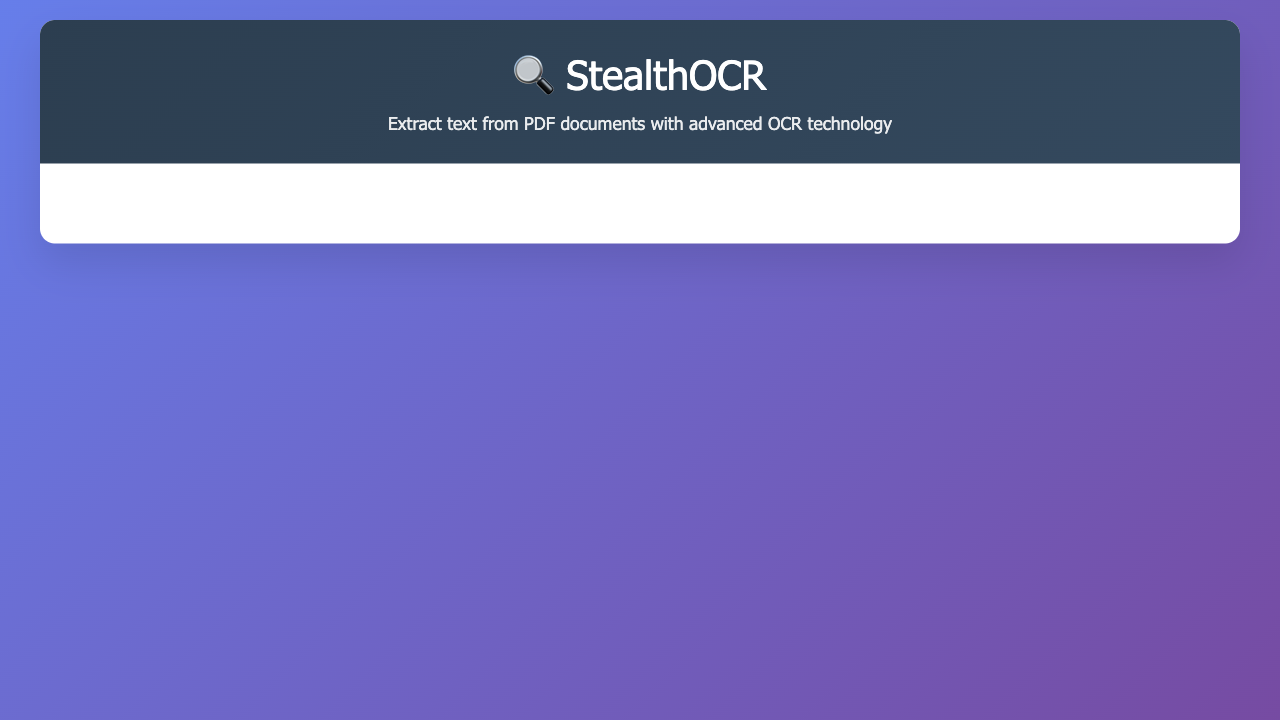
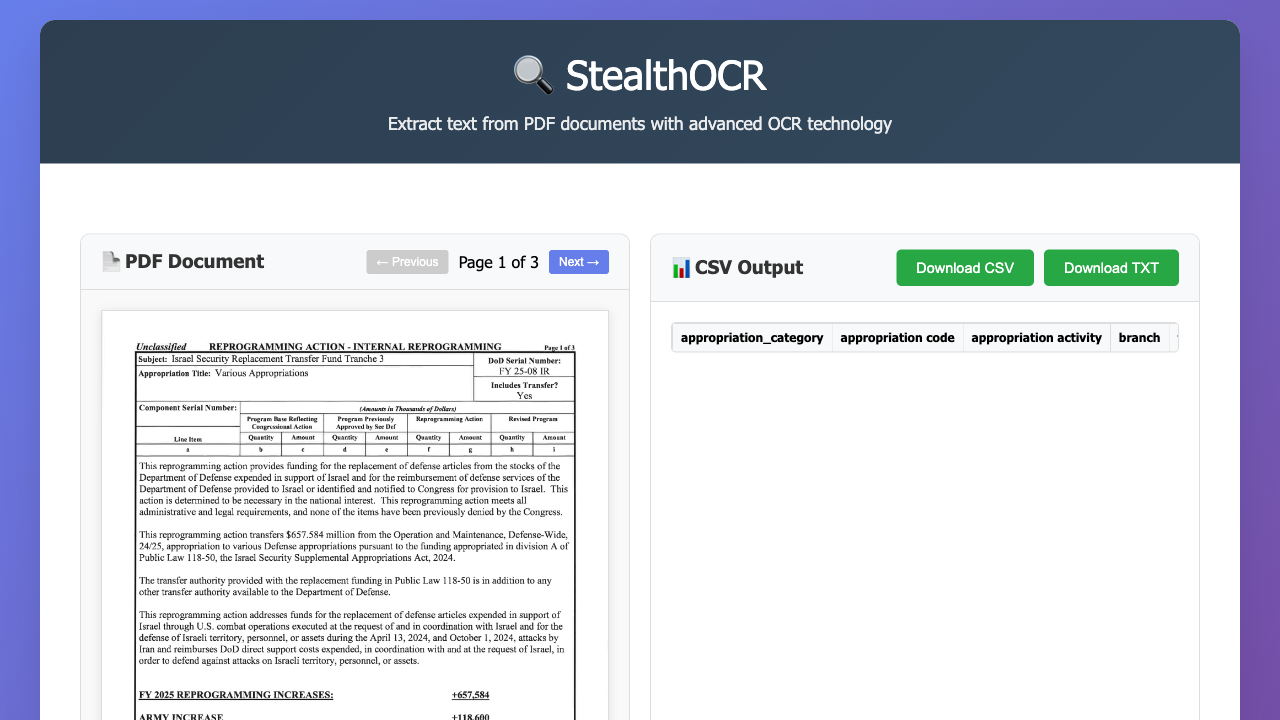
Add JavaScript OCR support with Tesseract.js
- Added Tesseract.js library for client-side OCR processing
- Implemented processPDFWithJS() function for browser-based OCR
- PDF pages are rendered to canvas and processed with Tesseract.js
- Real OCR processing now available on GitHub Pages
- No server required - runs entirely in the browser
- Progress logging and error handling included
- Falls back to JavaScript OCR when API is unavailable

diff --git a/index.html b/index.html
@@ -457,6 +457,7 @@
 
     <script src="config.js?v=2"></script>
     <script src="https://cdnjs.cloudflare.com/ajax/libs/pdf.js/3.11.174/pdf.min.js"></script>
+    <script src="https://cdn.jsdelivr.net/npm/tesseract.js@5.0.4/dist/tesseract.min.js"></script>
     <script src="js/excel-display.js?v=2"></script>
     <script>
         let extractedText = '';
@@ -568,8 +569,9 @@
                 const API_URL = getApiUrl();
                 
                 if (!API_URL) {
-                    // No API available - show demo mode
-                    showDemoMode(file);
+                    // No API available - use JavaScript OCR
+                    console.log("No API available, using JavaScript OCR");
+                    await processPDFWithJS(file);
                     return;
                 }
                 
@@ -604,6 +606,80 @@
             } catch (error) {
                 console.error('Error processing PDF:', error);
                 showMessage(`Error processing PDF: ${error.message}`, 'error');
+                hideProcessing();
+            }
+        }
+        
+        // Process PDF using JavaScript OCR (Tesseract.js)
+        async function processPDFWithJS(file) {
+            try {
+                console.log("🔍 Starting JavaScript OCR processing...");
+                
+                // Load PDF with PDF.js
+                const arrayBuffer = await file.arrayBuffer();
+                pdfDoc = await pdfjsLib.getDocument(arrayBuffer).promise;
+                totalPages = pdfDoc.numPages;
+                
+                let allText = '';
+                let pagesProcessed = 0;
+                
+                // Process each page
+                for (let pageNum = 1; pageNum <= totalPages; pageNum++) {
+                    console.log(`📄 Processing page ${pageNum}/${totalPages}...`);
+                    
+                    // Render page to canvas
+                    const page = await pdfDoc.getPage(pageNum);
+                    const viewport = page.getViewport({ scale: 2.0 }); // Higher scale for better OCR
+                    
+                    const canvas = document.createElement('canvas');
+                    const context = canvas.getContext('2d');
+                    canvas.height = viewport.height;
+                    canvas.width = viewport.width;
+                    
+                    await page.render({
+                        canvasContext: context,
+                        viewport: viewport
+                    }).promise;
+                    
+                    // Convert canvas to image data for Tesseract
+                    const imageData = canvas.toDataURL('image/png');
+                    
+                    // Process with Tesseract.js
+                    const { data: { text } } = await Tesseract.recognize(
+                        imageData,
+                        'eng',
+                        {
+                            logger: m => {
+                                if (m.status === 'recognizing text') {
+                                    console.log(`OCR Progress: ${Math.round(m.progress * 100)}%`);
+                                }
+                            }
+                        }
+                    );
+                    
+                    allText += `\n--- Page ${pageNum} ---\n${text}\n`;
+                    pagesProcessed++;
+                }
+                
+                console.log("✅ JavaScript OCR completed!");
+                
+                // Create result object similar to API response
+                const result = {
+                    success: true,
+                    text: allText,
+                    engine: 'tesseract-js',
+                    pages_processed: pagesProcessed,
+                    character_count: allText.length,
+                    word_count: allText.split(/\s+/).length,
+                    line_count: allText.split('\n').length
+                };
+                
+                extractedText = allText;
+                showResults(result);
+                
+            } catch (error) {
+                console.error('JavaScript OCR error:', error);
+                showMessage(`JavaScript OCR failed: ${error.message}`, 'error');
                 hideProcessing();
             }
         }

diff --git a/config.js b/config.js
@@ -24,9 +24,8 @@ function getApiUrl() {
     // Check if we're running on GitHub Pages or local
     if (window.location.hostname === 'syzygyx.github.io' || 
         window.location.hostname.includes('github.io')) {
-        // For now, return null to trigger demo mode
-        // TODO: Enable when Lambda API is fully working
-        return null;
+        // Use JavaScript OCR instead of demo mode
+        return null; // This triggers JavaScript OCR processing
     } else {
         return CONFIG.LOCAL_API_URL;
     }
